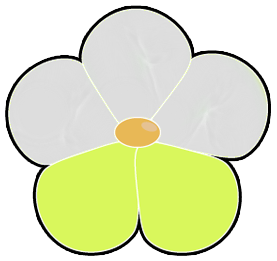
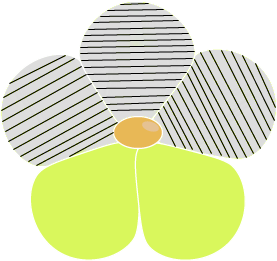
Se agrego mas imagenes y se modificaron las fracciones, ahora la parte de color es la que representa la fraccion

Changed region(s): [[0.0, 0.0, 1.0, 1.0]]

diff --git a/javascript/juego.js b/javascript/juego.js
@@ -62,16 +62,16 @@ $('.mute').click(function (e){
 
 
 function pedirDatos() {
-    if(nivel===2){
+    if(nivel===3){
         showGameOver();
     }else{
         var operation = {"operation": undefined};
         switch (nivel) {
             case 1:
-            operation.operation = "sum";
+            operation.operation = "level1";
             break;
             case 2:
-            operation.operation = "rest";
+            operation.operation = "level2";
             break;
 
         }
